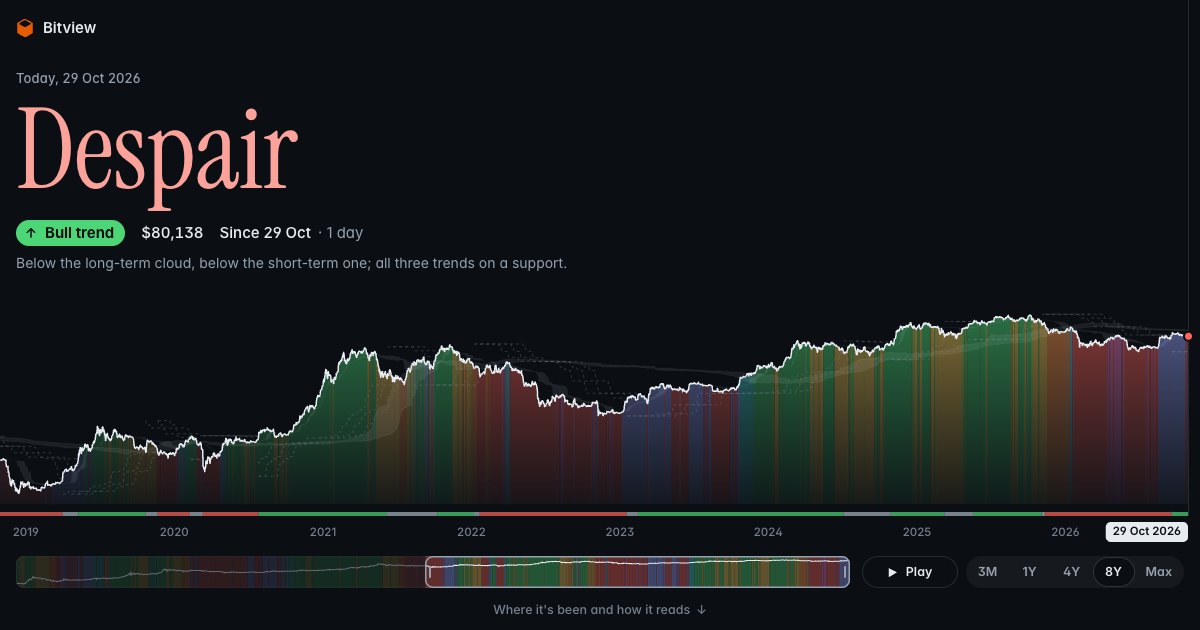
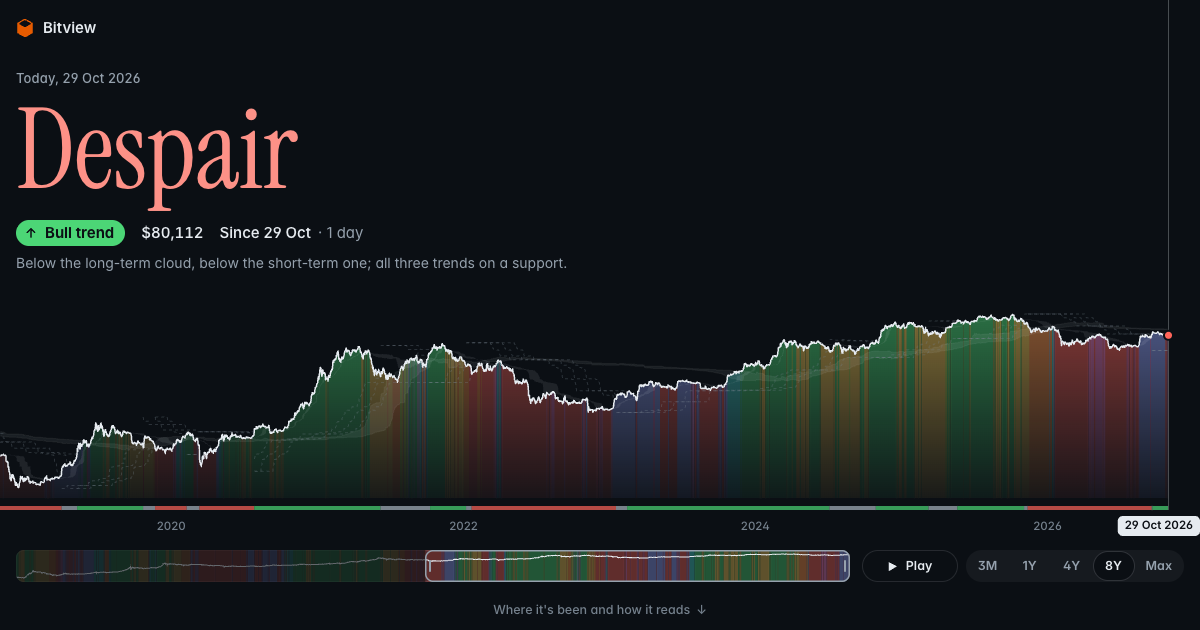
showcases: Compass, the kept day marked, room past the latest day, and a polish pass.
The day clicked keeps a firm line and its ring while another day is pointed at, under a fainter line. Past the latest day, 32px of room (ROOM, as Studio's chart leaves): the spans open with it, a drag or the keys go that far and no further, a day brought into view lands where the latest sits; it holds its width as the window's resized; the pan bar's window stays within the bar, its right end held keeps the room; play's speed counts days, not the room.

Polish: the strip's playhead a slim hollow capsule around its band, the band seen through it, its sticks meeting its ends; the share bars tinted as the cells and the strip are; on a tall desk the compass column held in sight while its longer lists scroll by; the loading placeholder fitted to the chart without its axis; an unused colour gone. Share card and cover made again.

Checks: its script type-checks clean; looked at on a phone and a desk, light and dark; a day kept then another pointed at, Max then − three times, the spans, the pan bar's ends. Codex's reviews: the polish batch no findings; the kept line and the room 6 findings, all fixed and checked by hand.

Changed region(s): [[0.0, 0.4825, 1.0, 0.9349], [0.1542, 0.3619, 0.185, 0.3921]]

diff --git a/showcases/compass/index.html b/showcases/compass/index.html
@@ -332,7 +332,7 @@
         &.loading::after {
           content: "";
           position: absolute;
-          inset: 50% 104px 120px 0;
+          inset: 50% 12px 132px 0;
           border-radius: 0 12px 12px 0;
           background: var(--grid);
         }
@@ -606,6 +606,16 @@
         @media (min-width: 900px) {
           grid-template-columns: minmax(0, 1fr) minmax(0, 1fr);
           gap: 56px;
+
+          /* (The compass held in sight while its lists, longer, scroll by: where the screen's tall enough to hold it
+             whole, its play button too.) */
+          @media (min-height: 900px) {
+            > :first-child {
+              position: sticky;
+              top: 24px;
+              align-self: start;
+            }
+          }
         }
       }
 
@@ -841,7 +851,8 @@
             width: var(--w);
             height: 100%;
             border-radius: inherit;
-            background: currentColor;
+            /* (Tinted as the cells and the strip are.) */
+            background: color-mix(in srgb, currentColor 65%, transparent);
           }
         }
 
@@ -1286,14 +1297,14 @@
         probe.remove();
         return color;
       }
-      /** @type {{ states: string[], trends: string[], ink: string, faint: string, grid: string, line: string, long: string, short: string, app: string }} */
+      /** @type {{ states: string[], trends: string[], ink: string, faint: string, grid: string, long: string, short: string, app: string }} */
       let paint;
       function repaint() {
         paint = {
           states: STATES.map((s) => resolved(`var(--s-${s.id})`)),
           trends: TRENDS.map((t) => resolved(`var(--s-${t.color})`)),
           ink: resolved("var(--ink)"), faint: resolved("var(--faint)"), grid: resolved("var(--grid)"),
-          line: resolved("var(--line)"), long: resolved("var(--cloud-long)"), short: resolved("var(--cloud-short)"), app: resolved("var(--app)"),
+          long: resolved("var(--cloud-long)"), short: resolved("var(--cloud-short)"), app: resolved("var(--app)"),
         };
       }
 
@@ -1309,9 +1320,10 @@
       let pinned = /** @type {number | null} */ (null), hovered = /** @type {number | null} */ (null);
       const shownDay = () => hovered ?? pinned ?? /** @type {Days} */ (days).last;
 
+      /** A span's days, the room past the latest kept after them (see ROOM). */
       function spanOf(/** @type {number} */ s) {
-        const d = /** @type {Days} */ (days);
-        return { a: s ? Math.max(d.first, d.last - s + 1) : d.first, b: d.last };
+        const d = /** @type {Days} */ (days), a = s ? Math.max(d.first, d.last - s + 1) : d.first, length = d.last - a + 1;
+        return { a, b: a + length / (1 - roomShare()) - 1 };
       }
 
       // ── The address: the span and the day kept, so a link opens on them (?span=1y&day=2021-11-10) ──
@@ -1346,9 +1358,11 @@
       // ── The chart ──
 
       const chart = $("chart"), canvas = /** @type {HTMLCanvasElement} */ ($("canvas")), ctx = /** @type {CanvasRenderingContext2D} */ (canvas.getContext("2d"));
-      /** Its layout, in CSS pixels: room at the right for today's ring, the trend's lane, the dates' row. (No price
-       * axis: the day's price is said above.) */
-      const EDGE = 12, LANE = 4, YEARS = 30;
+      /** Its layout, in CSS pixels: the room at the right past the latest day (as Studio's chart leaves), the trend's
+       * lane, the dates' row. (No price axis: the day's price is said above.) */
+      const ROOM = 32, LANE = 4, YEARS = 30;
+      /** ROOM as a share of the plot's width: of a view's days, how many are room past the latest. */
+      const roomShare = () => Math.min(0.5, ROOM / Math.max(1, plotRight()));
       /** The room between the words over the chart and its highest price. */
       const TOP_GAP = 16;
       /** The canvas's size, the whole first screen; the prices' top (its pane runs to the screen's, the prices kept
@@ -1357,7 +1371,7 @@
       /** The plot's price range (logs), eased as the span's days change. */
       let range = { lo: 0, hi: 1 };
 
-      const plotRight = () => width - EDGE, plotBottom = () => footTop - YEARS - LANE - 8;
+      const plotRight = () => width, plotBottom = () => footTop - YEARS - LANE - 8;
       /** The dates' baseline, under the lane. */
       const datesY = () => plotBottom() + 8 + LANE + 20;
       const xOf = (/** @type {number} */ day) => ((day - view.a + 0.5) / (view.b - view.a + 1)) * plotRight();
@@ -1496,18 +1510,24 @@
           for (const m of shown < 150 ? [0, 1, 2, 3, 4, 5, 6, 7, 8, 9, 10, 11] : [0, 3, 6, 9]) label((Date.UTC(y, m, 1) - EPOCH) / DAY, m ? MONTHS[m] : String(y));
         }
 
-        // A line down the day shown, its price ringed, its date tagged along the foot (its price is said above).
-        if (seen) {
-          const x = Math.round(xOf(day)) + 0.5, y = yOf(d.close[day]);
-          ctx.fillStyle = paint.line;
-          ctx.fillRect(x - 0.5, 0, 1, bottom + 8 + LANE);
+        // The day kept, a firm line down it; the day pointed at, if another, a fainter one; each its price ringed. The day
+        // shown's date tagged along the foot (its price is said above).
+        const mark = (/** @type {number} */ at, /** @type {boolean} */ kept) => {
+          if (at < view.a - 0.5 || at > view.b + 0.5) return;
+          const x = Math.round(xOf(at)) + 0.5, y = yOf(d.close[at]);
+          ctx.fillStyle = withAlpha(paint.ink, kept ? 0.6 : 0.28);
+          ctx.fillRect(x - (kept ? 0.75 : 0.5), 0, kept ? 1.5 : 1, bottom + 8 + LANE);
           ctx.beginPath();
           ctx.arc(x, y, 4.5, 0, Math.PI * 2);
-          ctx.fillStyle = paint.states[d.state[day]];
+          ctx.fillStyle = paint.states[d.state[at]];
           ctx.fill();
           ctx.lineWidth = 2;
           ctx.strokeStyle = paint.app;
           ctx.stroke();
+        };
+        if (pinned !== null && pinned !== day) mark(pinned, true);
+        mark(day, day === pinned);
+        if (seen) {
           ctx.font = "600 11.5px Inter, system-ui, sans-serif";
           ctx.textBaseline = "middle";
           ctx.fillStyle = paint.ink;
@@ -1589,8 +1609,9 @@
       /** The view on `length` days from `a`, kept within the history; moved by hand, so no span's pressed. */
       function viewTo(/** @type {number} */ a, /** @type {number} */ length) {
         const d = /** @type {Days} */ (days);
-        length = Math.max(FEWEST, Math.min(d.last - d.first + 1, length));
-        a = Math.max(d.first, Math.min(d.last - length + 1, a));
+        // (All the history at most, with ROOM past its latest day; at most as far right as leaves that room.)
+        length = Math.max(FEWEST, Math.min((d.last - d.first + 1) / (1 - roomShare()), length));
+        a = Math.max(d.first, Math.min(d.last + roomShare() * length - length + 1, a));
         // (Already there, at an end: nothing moves, the span stays pressed.)
         if (Math.abs(a - view.a) < 1e-6 && Math.abs(a + length - 1 - view.b) < 1e-6) return;
         easing = null;
@@ -1603,9 +1624,10 @@
       }
       /** The view moved just enough to show a day (by its nearer end), as long as it is. */
       function keepVisible(/** @type {number} */ day) {
-        const length = target.b - target.a + 1;
+        const length = target.b - target.a + 1, room = roomShare() * length;
         if (day < Math.ceil(target.a)) viewTo(day, length);
-        else if (day > Math.floor(target.b + 0.5)) viewTo(day - length + 1, length);
+        // (Past its right: brought in where the latest day sits, the room after it.)
+        else if (day > Math.floor(target.b - room + 0.5)) viewTo(day + room - length + 1, length);
       }
 
       function size() {
@@ -1614,6 +1636,11 @@
         height = box.height;
         plotTop = $("hero").getBoundingClientRect().bottom - box.top + TOP_GAP;
         footTop = $("foot").getBoundingClientRect().top - box.top;
+        // (The room past the latest day is in pixels: a new width, the view's days measured again for it.)
+        if (days && !easing) {
+          if (span !== -1) (target = spanOf(span)), (view = { ...target });
+          else viewTo(view.a, view.b - view.a + 1);
+        }
         redraw();
       }
       for (const part of [chart, $("hero"), $("foot")]) new ResizeObserver(size).observe(part);
@@ -1735,7 +1762,7 @@
           // (About the day shown, where it is in the chart.)
           e.preventDefault();
           stopPlay();
-          const length = target.b - target.a + 1, next = Math.max(FEWEST, Math.min(d.last - d.first + 1, length * (e.key === "-" ? 1.25 : 0.8))), share = (at - target.a) / length;
+          const length = target.b - target.a + 1, next = Math.max(FEWEST, Math.min((d.last - d.first + 1) / (1 - roomShare()), length * (e.key === "-" ? 1.25 : 0.8))), share = (at - target.a) / length;
           viewTo(at - share * next, next);
         } else if (e.key === "Escape" && (pinned !== null || hovered !== null || d.last > target.b + 0.5)) {
           stopPlay();
@@ -1771,7 +1798,7 @@
       /** Which part of the window a point's on (its ends 10px wide, the window itself, or neither). */
       /** @returns {"start" | "end" | "window" | null} */
       function panPart(/** @type {number} */ x) {
-        const a = panX(view.a), b = panX(view.b + 1);
+        const a = panX(view.a), b = Math.min(pan.clientWidth, panX(view.b + 1));
         // (A window too short for its ends to be held apart is held whole, across the 12px it's drawn at at least, and
         // 6px about: a span's button or the keys size it.)
         if (b - a < 24) return x >= a - 6 && x <= Math.max(b, a + 12) + 6 ? "window" : null;
@@ -1807,7 +1834,7 @@
         panContext.drawImage(panBase, 0, 0);
         // (Outside the window, dimmed.)
         panContext.setTransform(dpr, 0, 0, dpr, 0, 0);
-        const a = panX(view.a), b = panX(view.b + 1);
+        const a = panX(view.a), b = Math.min(pan.clientWidth, panX(view.b + 1));
         panContext.fillStyle = withAlpha(paint.app, 0.6);
         panContext.fillRect(0, 0, a, h);
         panContext.fillRect(b, 0, w - b, h);
@@ -1838,7 +1865,11 @@
         else if (panning.part === "start") {
           const start = Math.max(days.first, Math.min(a + moved, b - FEWEST + 1));
           viewTo(start, b - start + 1);
-        } else viewTo(a, Math.min(days.last, Math.max(b + moved, a + FEWEST - 1)) - a + 1);
+        } else {
+          // (Its right end at most where the latest day keeps its room after it: b = last + share × (b − a + 1).)
+          const share = roomShare(), end = Math.min((days.last + share * (1 - a)) / (1 - share), Math.max(b + moved, a + FEWEST - 1));
+          viewTo(a, end - a + 1);
+        }
       });
       for (const type of ["pointerup", "pointercancel"]) pan.addEventListener(type, () => ((panning = null), pan.classList.remove("dragging")));
 
@@ -1986,19 +2017,19 @@
         stripContext.setTransform(1, 0, 0, 1, 0, 0);
         stripContext.clearRect(0, 0, strip.width, strip.height);
         stripContext.drawImage(stripBase, 0, 0);
-        // (The playhead: a line through the band, a knob on it, ringed in the page's colour.)
+        // (The playhead: a slim hollow capsule around the band on the day, the band seen through it, a stick up and down
+        // from its ends.)
         stripContext.setTransform(dpr, 0, 0, dpr, 0, 0);
         const x = BAND.side + ((shownDay() - d.first + 0.5) / (d.last - d.first + 1)) * (w - 2 * BAND.side);
-        stripContext.fillStyle = paint.app;
-        stripContext.fillRect(x - 2.5, 2, 5, h - 4);
+        const top = BAND.top - 3, bottom = BAND.top + BAND.states + BAND.gap + BAND.trends + 3, half = 4.5;
         stripContext.fillStyle = paint.ink;
-        stripContext.fillRect(x - 1, 3, 2, h - 6);
+        stripContext.fillRect(x - 1, 1, 2, Math.max(0, top - 1));
+        stripContext.fillRect(x - 1, bottom, 2, Math.max(0, h - 1 - bottom));
         stripContext.beginPath();
-        stripContext.arc(x, h / 2, 6, 0, Math.PI * 2);
-        stripContext.lineWidth = 2.5;
-        stripContext.strokeStyle = paint.app;
+        stripContext.roundRect(x - half, top, 2 * half, bottom - top, half);
+        stripContext.lineWidth = 2;
+        stripContext.strokeStyle = paint.ink;
         stripContext.stroke();
-        stripContext.fill();
       }
       /** The slider on the day shown, said as the chart's is. */
       function syncSlider() {
@@ -2063,7 +2094,7 @@
         }
         const d = days, at = shownDay();
         playFrom = at >= d.last ? Math.max(d.first, Math.ceil(target.a)) : at;
-        playSpeed = (target.b - target.a + 1) / 8000;
+        playSpeed = (Math.min(d.last, target.b) - target.a + 1) / 8000;
         playAt = performance.now();
         hovered = null;
         gliding = 0;
